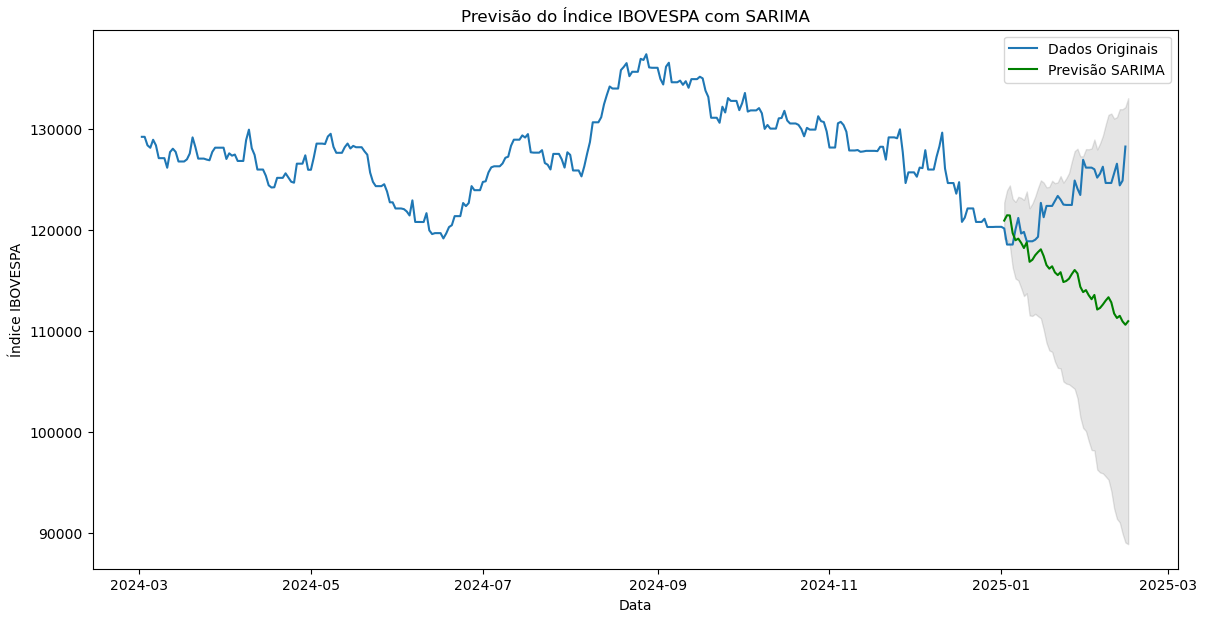
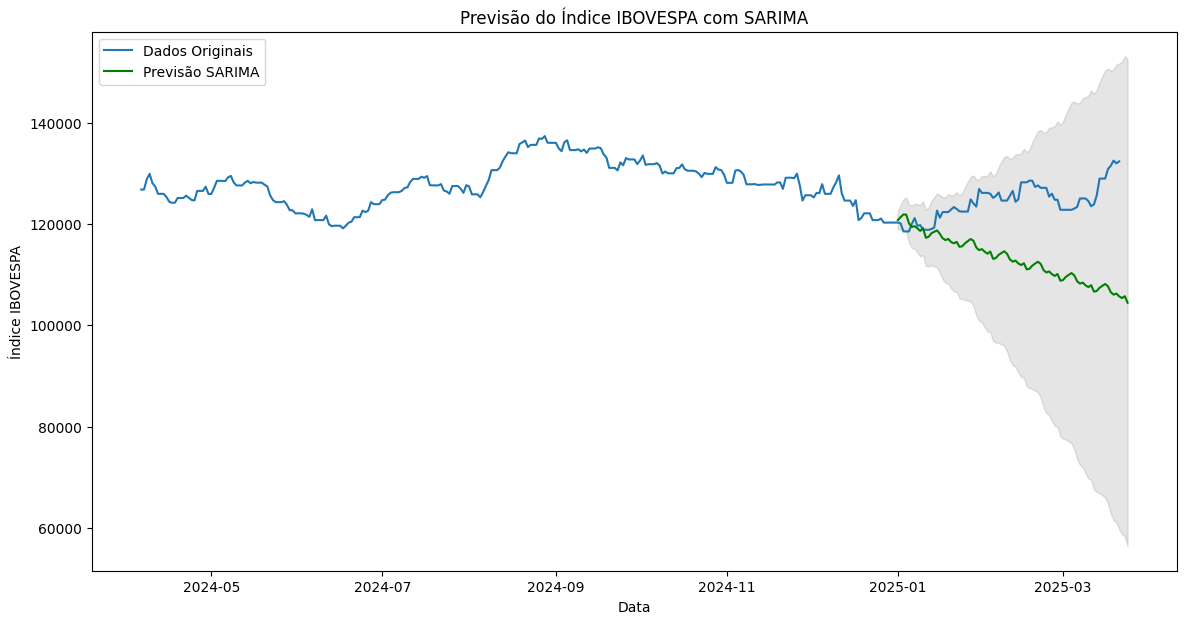
feat(2_ibov): Include requirements.txt inside project folder, new docs regarding sarima

diff --git a/challenges/2_ibov/README.md b/challenges/2_ibov/README.md
@@ -141,7 +141,7 @@ Nesta seção, são apresentados os índices selecionados para análise, dividid
 
 A camada bronze envolve a ingestão inicial e a limpeza básica dos dados brutos. Os dados são lidos a partir de arquivos CSV e transformações básicas são aplicadas para limpar e normalizar os dados.
 
-- **Arquivo:** bronze/process_investing_data.ipynb
+- **Arquivo:** [bronze/process_investing_data.ipynb](code/bronze/process_investing_data.ipynb)
 - **Etapas:**
   - Ler dados brutos de arquivos CSV.
   - Renomear colunas e converter tipos de dados.
@@ -152,7 +152,7 @@ A camada bronze envolve a ingestão inicial e a limpeza básica dos dados brutos
 
 A camada prata envolve o processamento e enriquecimento adicional dos dados. Isso inclui lidar com dados ausentes, normalizar valores e criar um DataFrame consolidado com todos os índices.
 
-- **Arquivo:** silver/process_investing_data.ipynb
+- **Arquivo:** [silver/process_investing_data.ipynb](code/silver/process_investing_data.ipynb)
 - **Etapas:**
   - Ler dados da camada bronze.
   - Criar um dicionário de todos os índices e seus respectivos dados.
@@ -165,7 +165,7 @@ A camada prata envolve o processamento e enriquecimento adicional dos dados. Iss
 
 A camada ouro envolve o processamento final e a preparação dos dados para análise e modelagem. Isso inclui calcular correlações, ajustar modelos de séries temporais e gerar previsões.
 
-- **Arquivo:** gold/process_investing_data.ipynb
+- **Arquivo:** [gold/process_investing_data.ipynb](code/gold/process_investing_data.ipynb)
 - **Etapas:**
   - Ler dados da camada prata.
   - Calcular matrizes de correlação.
@@ -175,7 +175,9 @@ A camada ouro envolve o processamento final e a preparação dos dados para aná
 
 ## Configuração
 
-Para configurar o ambiente de desenvolvimento e instalar as bibliotecas necessárias, siga as instruções nos notebooks. O projeto utiliza Python, PySpark, Pandas, NumPy, Matplotlib, Seaborn e Statsmodels.
+Para configurar o ambiente de desenvolvimento e instalar as bibliotecas necessárias, siga as instruções nos notebooks. O projeto utiliza Python, PySpark, Pandas, NumPy, Matplotlib, Seaborn, Statsmodels, StatsForecast.
+
+`pip install -r requirements.txt`
 
 ## Execução
 
@@ -203,7 +205,7 @@ Seguindo esses passos, você será capaz de prever os valores do índice do merc
    - Salvar os dados limpos na camada prata.
 
 3. **Processamento**:
-   - bronze/process_investing_data.ipynb
+   - [bronze/process_investing_data.ipynb](code/bronze/process_investing_data.ipynb)
 
 4. **Output**
    - data/silver/silver.parquet
@@ -223,7 +225,7 @@ Seguindo esses passos, você será capaz de prever os valores do índice do merc
    - Salvar os dados processados na camada ouro.
 
 4. **Processamento**:
-   - silver/process_investing_data.ipynb
+   - [silver/process_investing_data.ipynb](code/silver/process_investing_data.ipynb)
 
 5. **Output**
    - data/silver/gold.parquet
@@ -242,7 +244,7 @@ Seguindo esses passos, você será capaz de prever os valores do índice do merc
    - Plotar os resultados e calcular métricas de precisão.
 
 4. **Processamento**:
-   - gold/process_investing_data.ipynb
+   - [gold/process_investing_data.ipynb](code/gold/process_investing_data.ipynb)
 
 5. **Output**
    - Modelo de predição
@@ -318,6 +320,26 @@ Ao avaliar o desempenho do modelo Seasonal Naive nos dados de teste, conseguimos
 ### Resultados Sarima
 
 #### Definição Sarima
+O modelo SARIMA (Seasonal AutoRegressive Integrated Moving Average) é uma extensão do modelo ARIMA que incorpora componentes sazonais. Ele é utilizado para modelar e prever séries temporais que apresentam padrões sazonais, ajustando-se tanto às tendências quanto às variações sazonais.
+
+- **Sazonalidade (S)**: Captura padrões que se repetem em intervalos regulares.
+- **AR (AutoRegressive)**: Utiliza a relação entre uma observação e várias observações anteriores.
+- **I (Integrated)**: Utiliza a diferenciação das observações para tornar a série temporal estacionária.
+- **MA (Moving Average)**: Modela o erro da previsão como uma combinação linear de erros passados.
+
+O modelo SARIMA é representado como SARIMA(p, d, q)(P, D, Q, s), onde:
+
+- **p**: Ordem da parte autoregressiva.
+- **d**: Número de diferenciações necessárias para tornar a série estacionária.
+- **q**: Ordem da média móvel.
+- **P**: Ordem da parte autoregressiva sazonal.
+- **D**: Número de diferenciações sazonais.
+- **Q**: Ordem da média móvel sazonal.
+- **s**: Período da sazonalidade.
+
+#### Comparação Previsão Sarima X Teste
+
+![previsao_ibov_sarima](plots/previsao_ibov_sarima.png)
 
 ### Resultado Final, Comparação entre modelos
 
